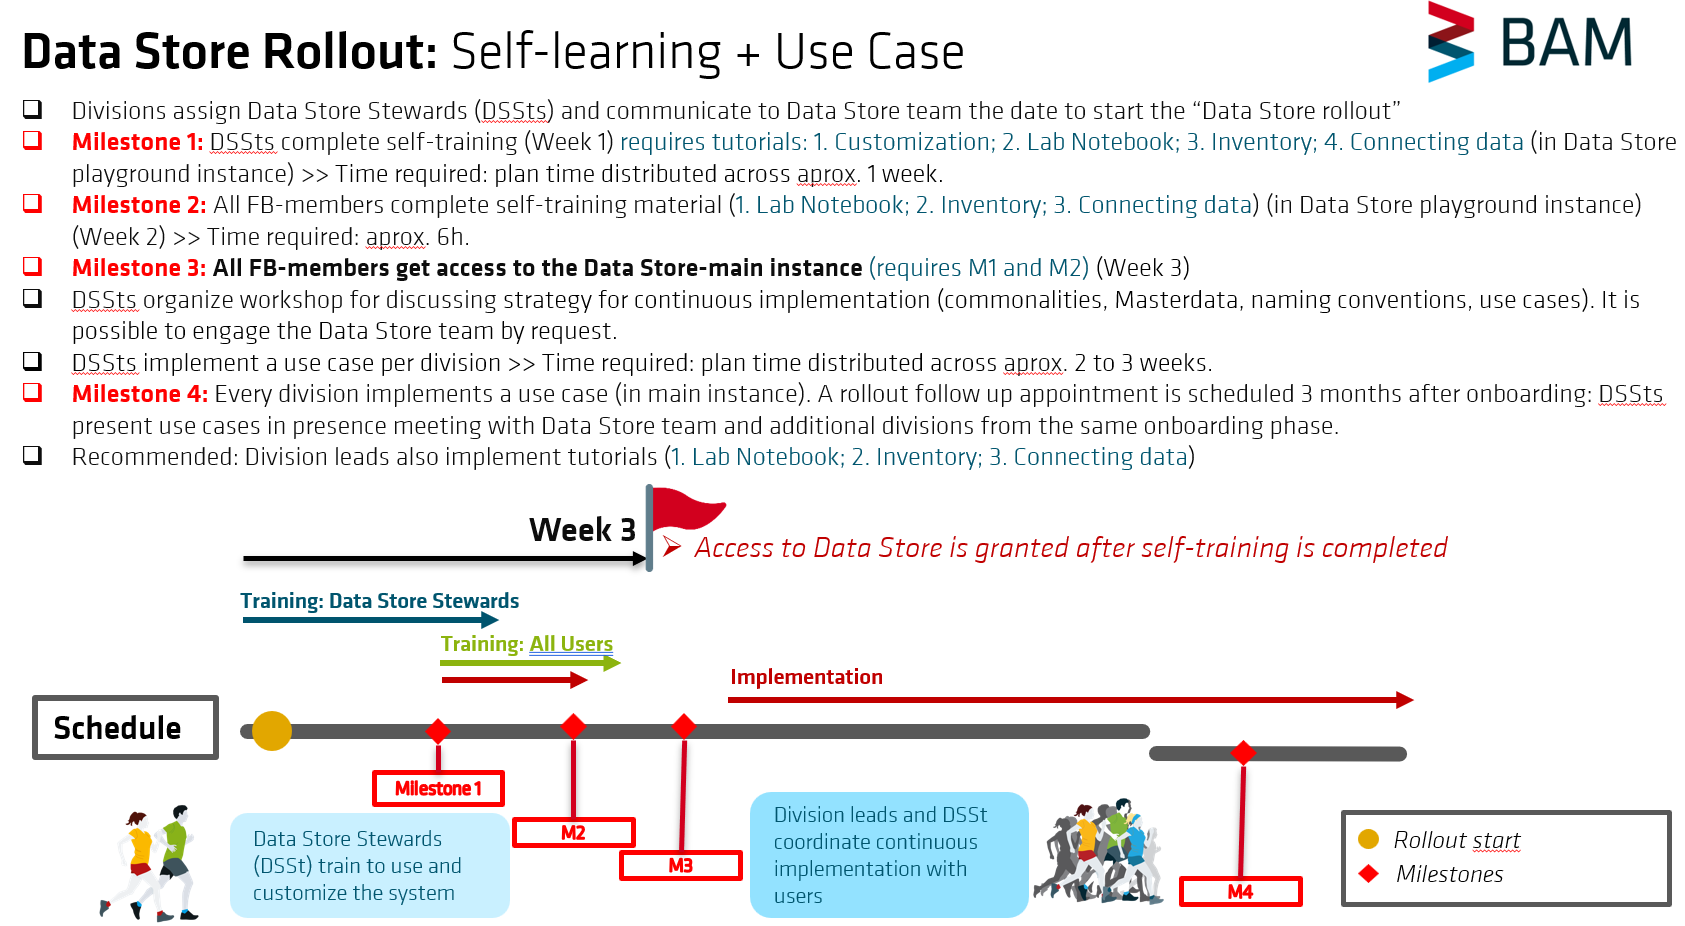
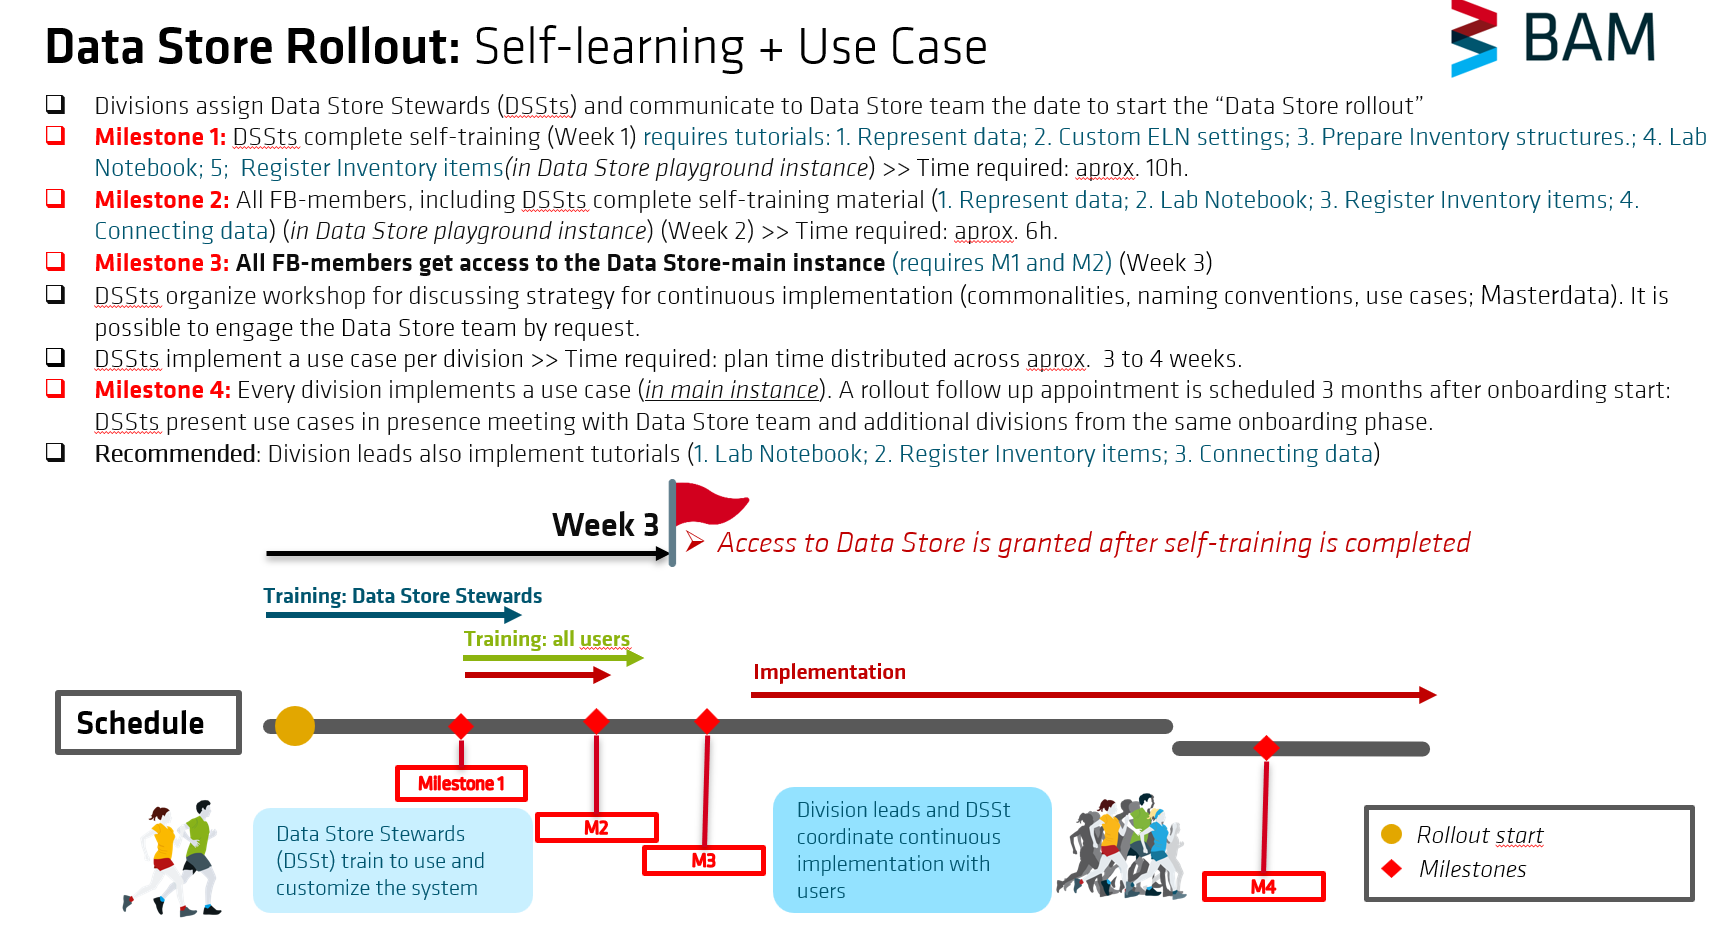
updated path-tutorial names

Changed region(s): [[0.0, 0.0302, 1.0, 0.9978], [0.8332, 0.0, 0.9875, 0.0907]]

diff --git a/self-learning-path/index.html b/self-learning-path/index.html
@@ -281,11 +281,11 @@
     </li>
 
     <li>
-      <strong>New BAM employees who handle research data and join a division that has already been onboarded.</strong>
+      <strong>New BAM employees who work with research data and join a division that has already been onboarded.</strong>
       In this case, new employees should contact the
       <strong>Data Store Steward (DSSt)</strong> assigned to their division. Together with the DSSt,
-      they should follow the learning path described in
-      <strong>Section 2: Tutorial sequence and responsibilities</strong>, completing the tutorials
+      they follow
+      <strong>Section 2: Tutorial sequence and responsibilities</strong> of this guideline and complete the tutorials
       relevant to their role.
     </li>
   </ul>
@@ -346,15 +346,15 @@
         <p>During the first week, DSSts read guidelines and complete the tutorials on:</p>
 
         <ul>
-          <li>Customization of the ELN settings for the group/division</li>
-          <li>Electronic Lab Notebook (ELN)</li>
-          <li>Inventory</li>
-          <li>Connecting data</li>
-          <li>Masterdata concepts and definition workflow</li>
+          <li>Guideline to represent research data</li>
+          <li>Customize ELN settings for the group</li>
+          <li>Prepare Invetory structures for the group</li>
+          <li>Upload data in the Lab Notebook</li>
+          <li>Register Inventory items</li>      
         </ul>
 
         <p class="estimated-time">
-          Estimated time: approximately one week.
+          Estimated time: approximately 10h.
         </p>
       </div>
 
@@ -362,13 +362,14 @@
         <div class="milestone-title">Milestone 2 – User onboarding (Week 2)</div>
 
         <p>
-          All division members who handle research data complete the tutorials on:
+          All division members who handle research data, including DSSts, complete the tutorials on:
         </p>
 
         <ul>
-          <li>Electronic Lab Notebook (ELN)</li>
-          <li>Inventory</li>
-          <li>Connecting data</li>
+           <li>Guideline to represent research data</li>
+          <li>Upload data in the Lab Notebook</li>
+          <li>Register Inventory items</li>
+          <li>Connect Lab Notebook data with inventory items</li>
         </ul>
 
         <p class="estimated-time">
@@ -393,7 +394,8 @@
       <h3>Step 2: Division workshop</h3>
       <div class="section-card">
         <p>
-          The Data Store Stewards organize a workshop within their division to define
+          The Data Store Stewards get familiar with Masterdata concepts, its definition workflow
+          and organize a workshop within their division to define
           how the Data Store will be implemented in daily research workflows.
           Relevant topics include:
         </p>
@@ -483,10 +485,10 @@
       </p>
 
       <p>
-        The tutorial sequence covers five implementation steps: configuring the
+        The tutorial sequence covers five implementation steps: customizing the
         Electronic Lab Notebook (ELN), uploading research data, preparing Inventory
         structures, registering Inventory objects, and connecting Lab Notebook data
-        with the corresponding Inventory objects.
+        with the Inventory items.
       </p>
 
       <div class="note">
@@ -528,21 +530,20 @@
             data and related metadata in the Data Store. Read this guideline before
             starting the role-specific tutorials.
           </p>
-          <!-- Replace # with the URL of the guideline -->
+          
           <a class="resource-link" href="https://bamresearch.github.io/openBIS-data-store-tutorials/represent-data-research-data/">Link to guideline</a>
         </div>
 
         <div class="tutorial-arrow" aria-hidden="true">↓</div>
 
         <div class="tutorial-step">
-          <div class="tutorial-number">2. Customize ELN settings for your group</div>
+          <div class="tutorial-number">2. Custom ELN settings for the group</div>
           <span class="role-label">Data Store Stewards only</span>
           <p>
             Prepare the Lab Notebook settings required for the division before other
             users begin working in the ELN.
           </p>
-          <!-- Replace # with the URL of the tutorial -->
-          <a class="resource-link" href="#">Link to tutorial</a>
+          <a class="resource-link" href="https://bamresearch.github.io/openBIS-data-store-tutorials/custom-eln">Link to tutorial</a>
         </div>
 
         <div class="tutorial-arrow" aria-hidden="true">↓</div>
@@ -554,20 +555,20 @@
           <p>
             Register experimental steps and upload the associated research data.
           </p>
-          <!-- Replace # with the URL of the tutorial -->
+  
           <a class="resource-link" href="https://bamresearch.github.io/openBIS-data-store-tutorials/lab-notebook/">Link to tutorial</a>
         </div>
 
         <div class="tutorial-arrow" aria-hidden="true">↓</div>
 
         <div class="tutorial-step">
-          <div class="tutorial-number">4. Prepare Inventory structures for your division</div>
+          <div class="tutorial-number">4. Prepare Inventory structures the group</div>
           <span class="role-label">Data Store Stewards only</span>
           <p>
             Create the required Inventory projects and collections and register
             shared Inventory items needed by the division.
           </p>
-          <!-- Replace # with the URL of the tutorial -->
+      >
           <a class="resource-link" href="https://bamresearch.github.io/openBIS-data-store-tutorials/inventory-data-stewards/">Link to tutorial</a>
         </div>
 
@@ -580,8 +581,8 @@
           <p>
             Register Inventory items generated or used during the research workflow.
           </p>
-          <!-- Replace # with the URL of the tutorial -->
-          <a class="resource-link" href="https://bamresearch.github.io/openBIS-data-store-tutorials/inventory-users/">Link to tutorial</a>
+        
+          <a class="resource-link" href="https://bamresearch.github.io/openBIS-data-store-tutorials/inventory-users/">Link to tutorial</a> 
         </div>
 
         <div class="tutorial-arrow" aria-hidden="true">↓</div>
@@ -596,8 +597,7 @@
             Connect experimental steps with the corresponding instruments, chemicals,
             samples, and other Inventory items to make the research workflow traceable.
           </p>
-          <!-- Replace # with the URL of the tutorial -->
-          <a class="resource-link" href="">Link to tutorial</a>
+          <a class="resource-link" href="https://bamresearch.github.io/openBIS-data-store-tutorials/connect-data/">Link to tutorial</a>
         </div>
 
       </div>
@@ -617,14 +617,14 @@
             <tr>
               <td>1</td>
               <td>Guideline: represent research data in the Data Store</td>
-              <td>Recommended</td>
-              <td>Recommended</td>
+              <td>Required</td>
+              <td>Required</td>
             </tr>
             <tr>
               <td>2</td>
               <td>Customize ELN settings</td>
               <td>Required</td>
-              <td>Not required</td>
+              <td>Not Required</td>
             </tr>
             <tr>
               <td>3</td>
@@ -636,7 +636,7 @@
               <td>4</td>
               <td>Prepare Inventory structures</td>
               <td>Required</td>
-              <td>Not required</td>
+              <td>Not Required</td>
             </tr>
             <tr>
               <td>5</td>
